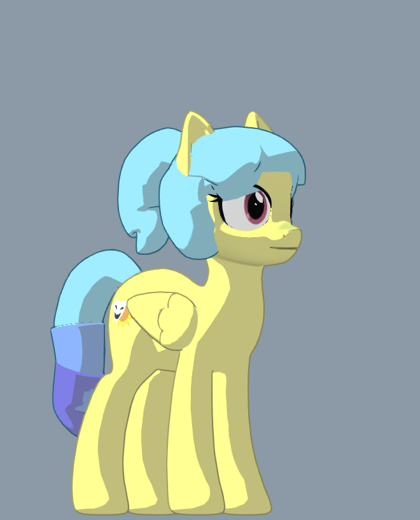
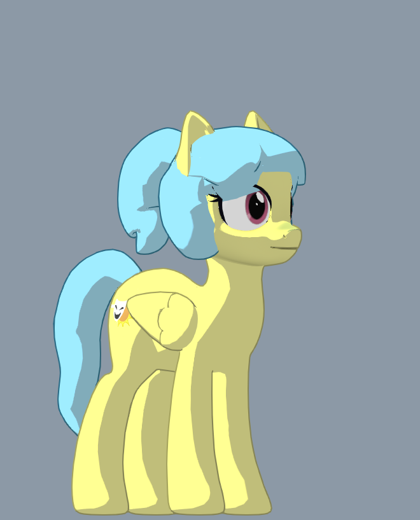
Make Matinée's tail light blue the whole way down

Changed region(s): [[0.1238, 0.6154, 0.2786, 0.8615], [0.5571, 0.3692, 0.65, 0.4308]]

diff --git a/hair/build_matinee_hair.py b/hair/build_matinee_hair.py
@@ -5,9 +5,9 @@ Needs numpy. Run it from anywhere:
 
     python mods/mare_fair/hair/build_matinee_hair.py
 
-Modelled from the official art (marefair.org/mascots and the 2025 site clips): a swept
-fringe, soft locks framing the cheeks, a high ponytail in a pink scrunchie, and a
-tapered tail that ends purple. The art has no standing side view, so the profile is
+Modelled from the official art (marefair.org/mascots and the 2025 site clips): a bob
+like her twin's, soft locks framing the cheeks, a high ponytail in a pink scrunchie, and
+a tapered light-blue tail. The art has no standing side view, so the profile is
 modelled from it, not traced. The pictures are not shipped.
 
 Rig space: +Y up, -Z toward the face, -X her right. Materials are 0 blue, 1 purple,
@@ -67,12 +67,7 @@ def tail():
     keys = [(0, 0.645, 0.165), (0, 0.68, 0.25), (0, 0.63, 0.34), (0, 0.53, 0.385), (0, 0.42, 0.375), (0, 0.32, 0.40), (0, 0.24, 0.365)]
     widths = [0.025, 0.05, 0.07, 0.07, 0.06, 0.045, 0.003]
     thicks = [0.026, 0.04, 0.05, 0.05, 0.04, 0.028, 0.003]
-    main = loft(keys, widths, thicks, tail_out, steps=10, sides=20)
-    # The purple end sits over the blue, slightly fuller so the colour change is clean.
-    tip = loft(keys[4:], [0.076, 0.06, 0.004], [0.053, 0.04, 0.004], tail_out, steps=10, sides=20)
-    # A halfway band between the two, so the blue fades into the periwinkle end.
-    mid = loft(keys[3:6], [0.08, 0.07, 0.054], [0.058, 0.048, 0.034], tail_out, steps=10, sides=20)
-    return {BLUE: [main], MID: [mid], PURPLE: [tip]}
+    return {BLUE: [loft(keys, widths, thicks, tail_out, steps=10, sides=20)]}
 
 
 def main():

diff --git a/README.md b/README.md
@@ -19,7 +19,7 @@ Built for game version `0.3.0-maredev`. With the mod switched off, Ponyville is 
 | --- | --- | --- | --- |
 | **Fair Flyer** | Pegasus | Two-tone blonde mane and a big wavy tail, wide sun hat with a sunflower | Organises the event |
 | **Soirée** | Earth pony | Rounded cyan bob with a level fringe, short crescent tail | Blunt and sardonic; Matinée's twin; married to aperture_tech |
-| **Matinée** | Pegasus | Light-blue bob like her twin's, high ponytail in a pink scrunchie, tail fading to periwinkle | Bubbly costume enthusiast; Soirée's twin |
+| **Matinée** | Pegasus | Light-blue bob like her twin's, high ponytail in a pink scrunchie, tapered light-blue tail | Bubbly costume enthusiast; Soirée's twin |
 | **Morning Mimosa** | Earth pony | Green mane, leafy braids tied with oranges, round spiral glasses | Eccentric |
 | **Fun Raiser** | Unicorn | Orange ponytail and curls with a pale streak, gold half-moon reading glasses | Introduces ponies who need something to each other |
 
